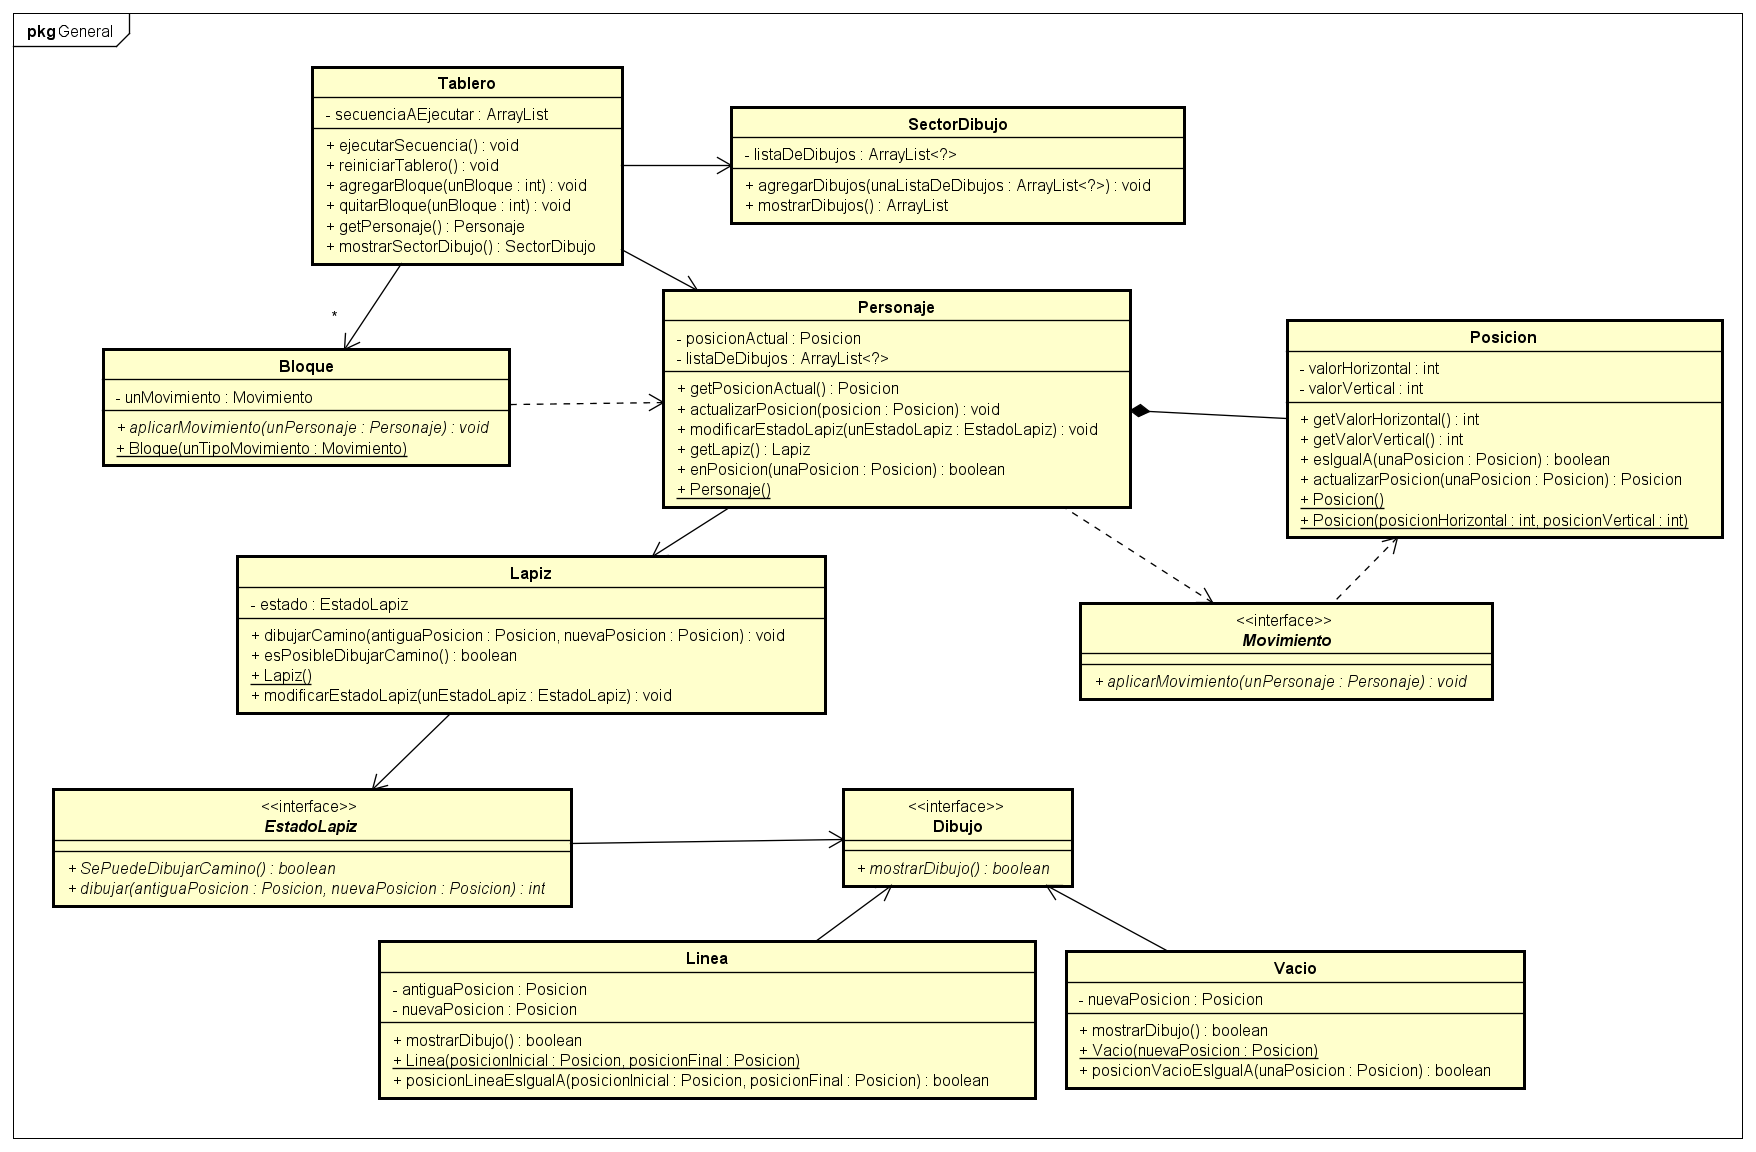
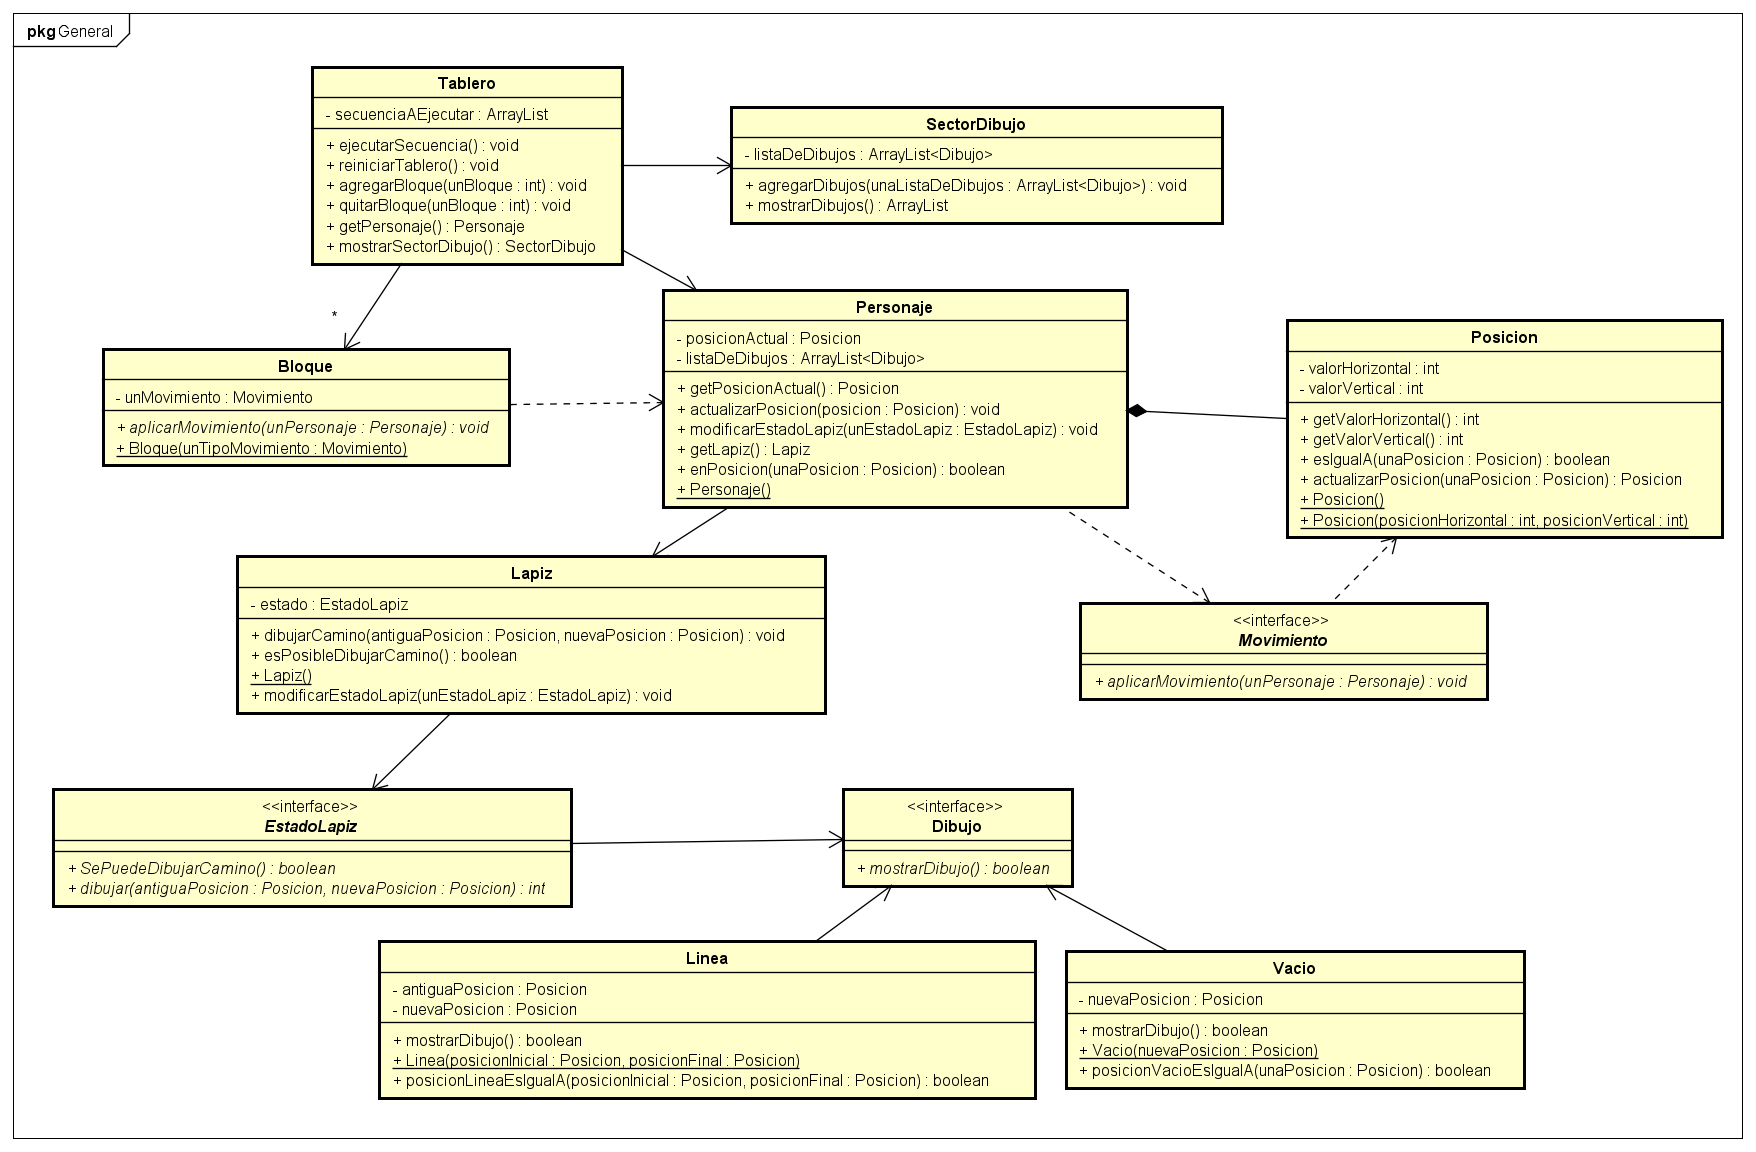
Actualización de los diagramas UML e informe

diff --git a/Informe/informe.md b/Informe/informe.md
@@ -46,7 +46,7 @@ comprobar si se actualiza el estado del lápiz correctamente.
 
 ## Diagramas
 
-![Diagrama de clases general](https://i.imgur.com/9ruLwIr.png)
+![Diagrama de clases general](https://i.imgur.com/qdTf3mX.png)
 Diagrama general de clases.
 
 ![Diagrama de clase del Estado Lapiz](https://i.imgur.com/4w9Ozp7.png)
